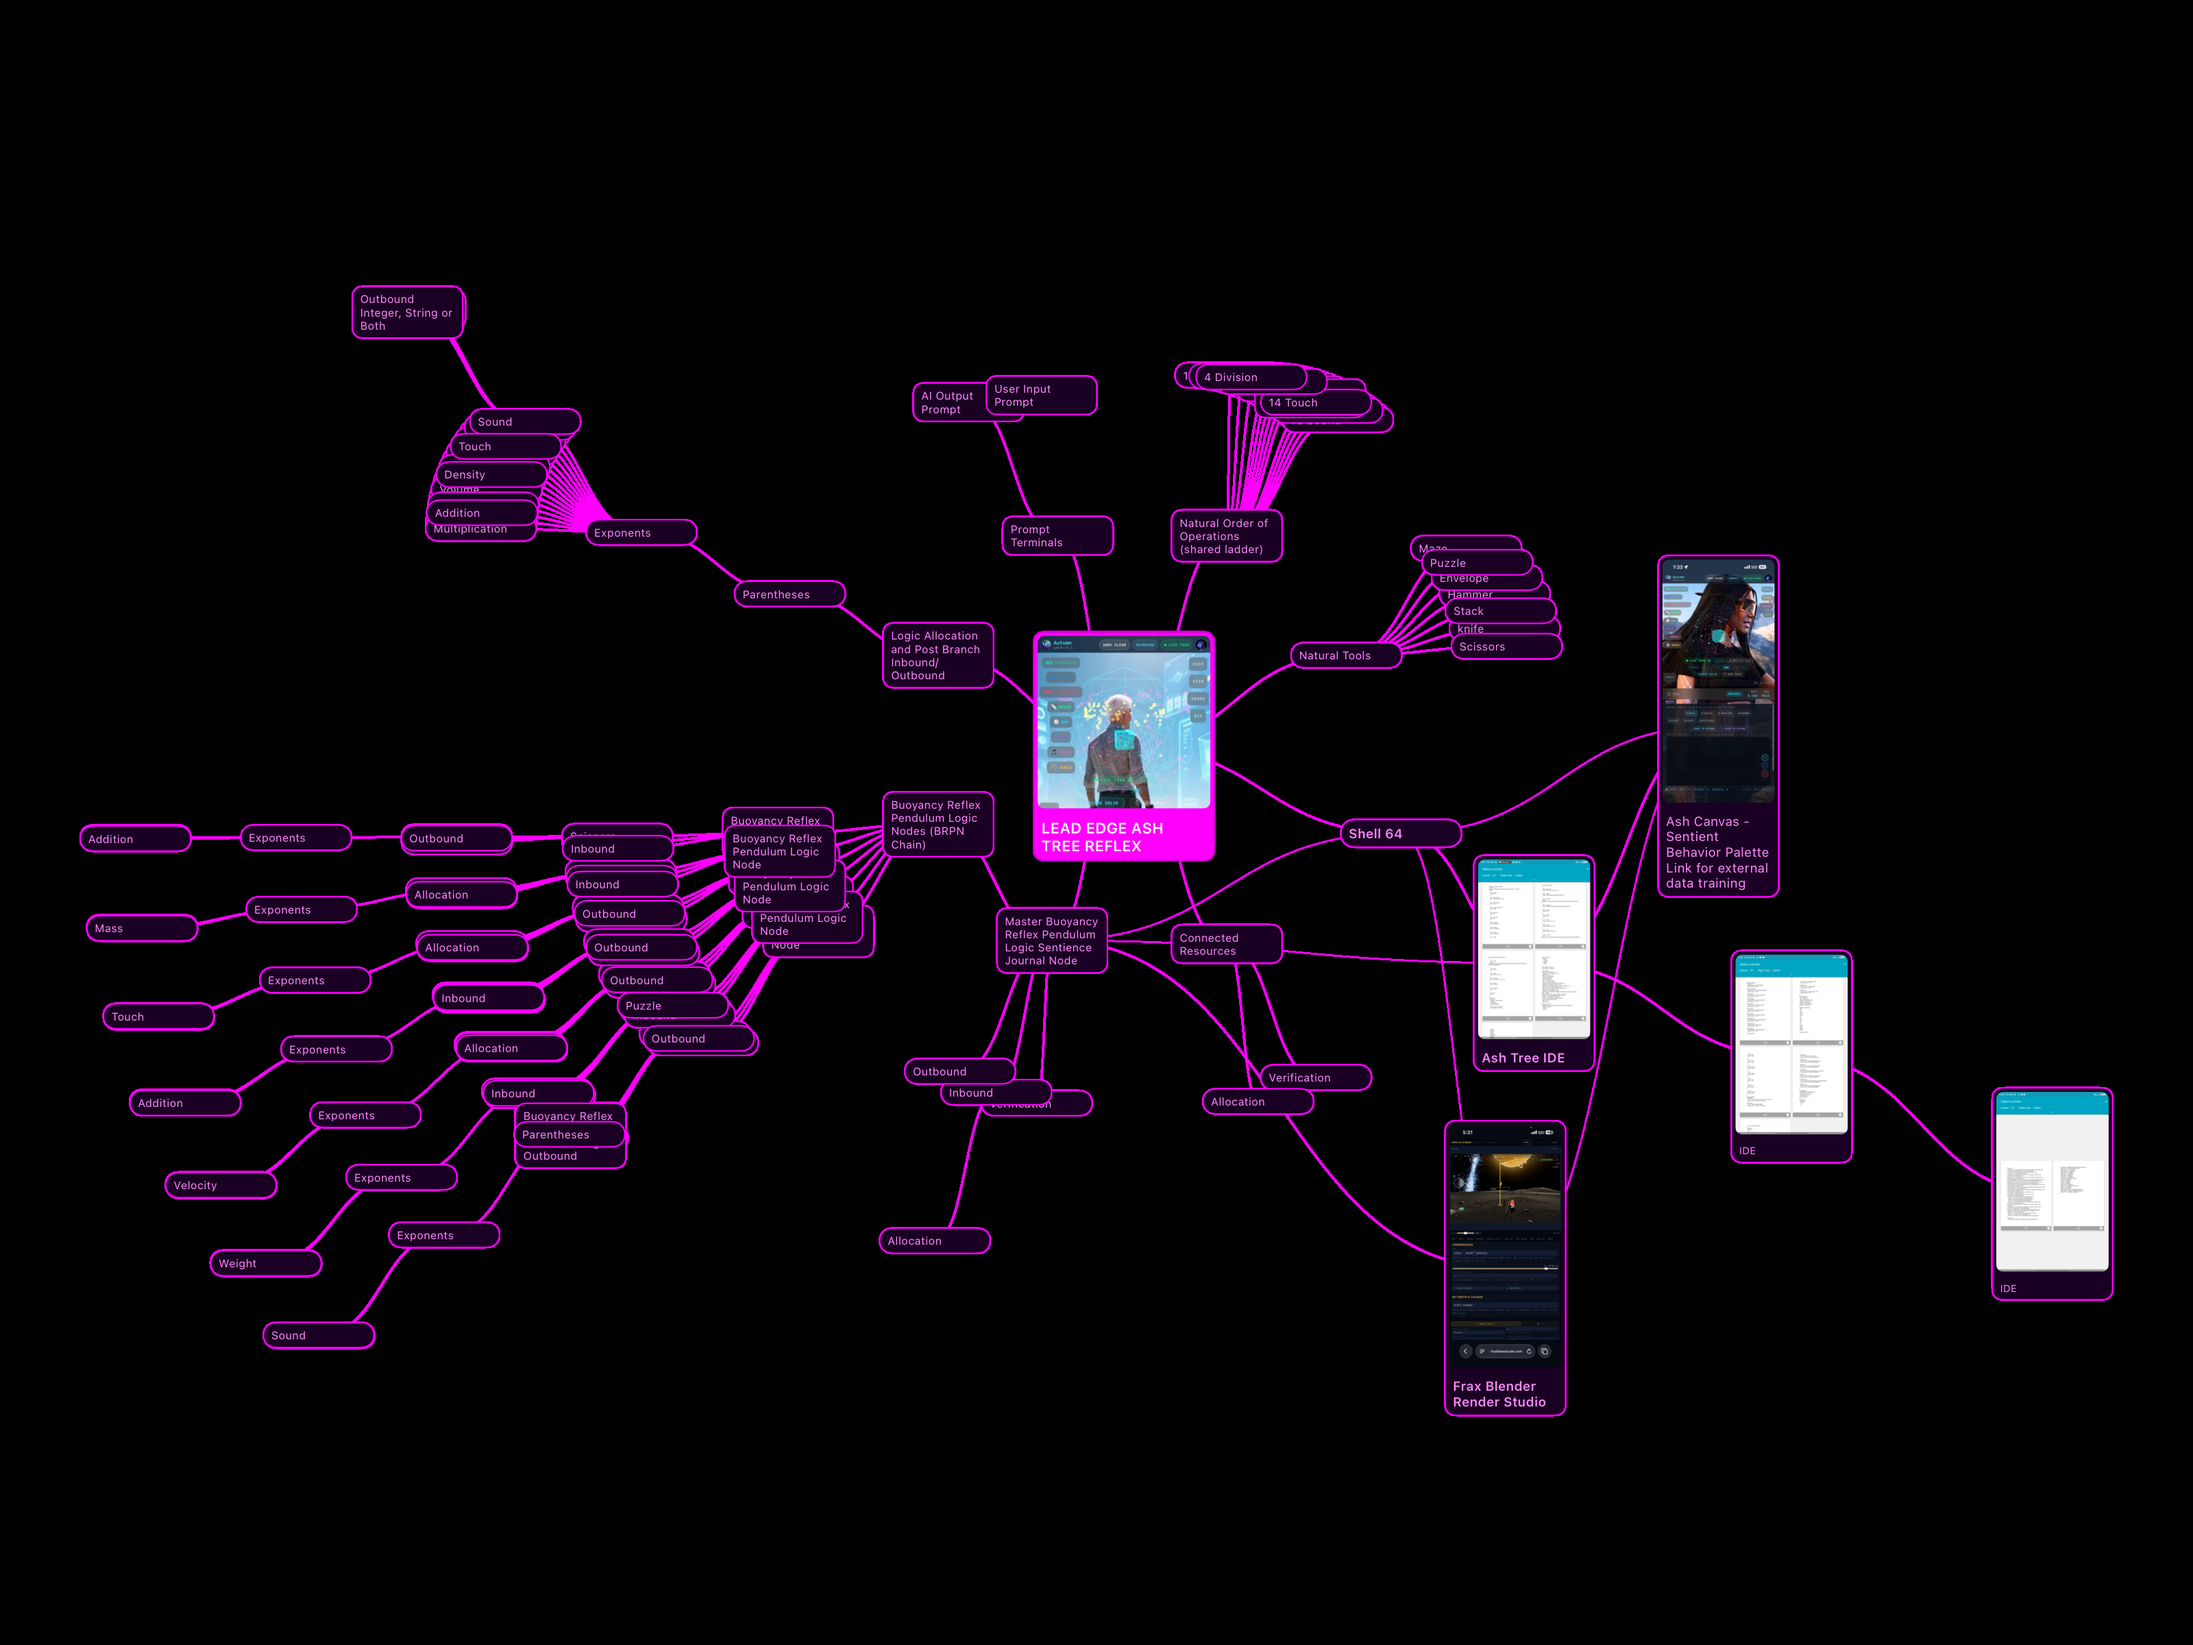
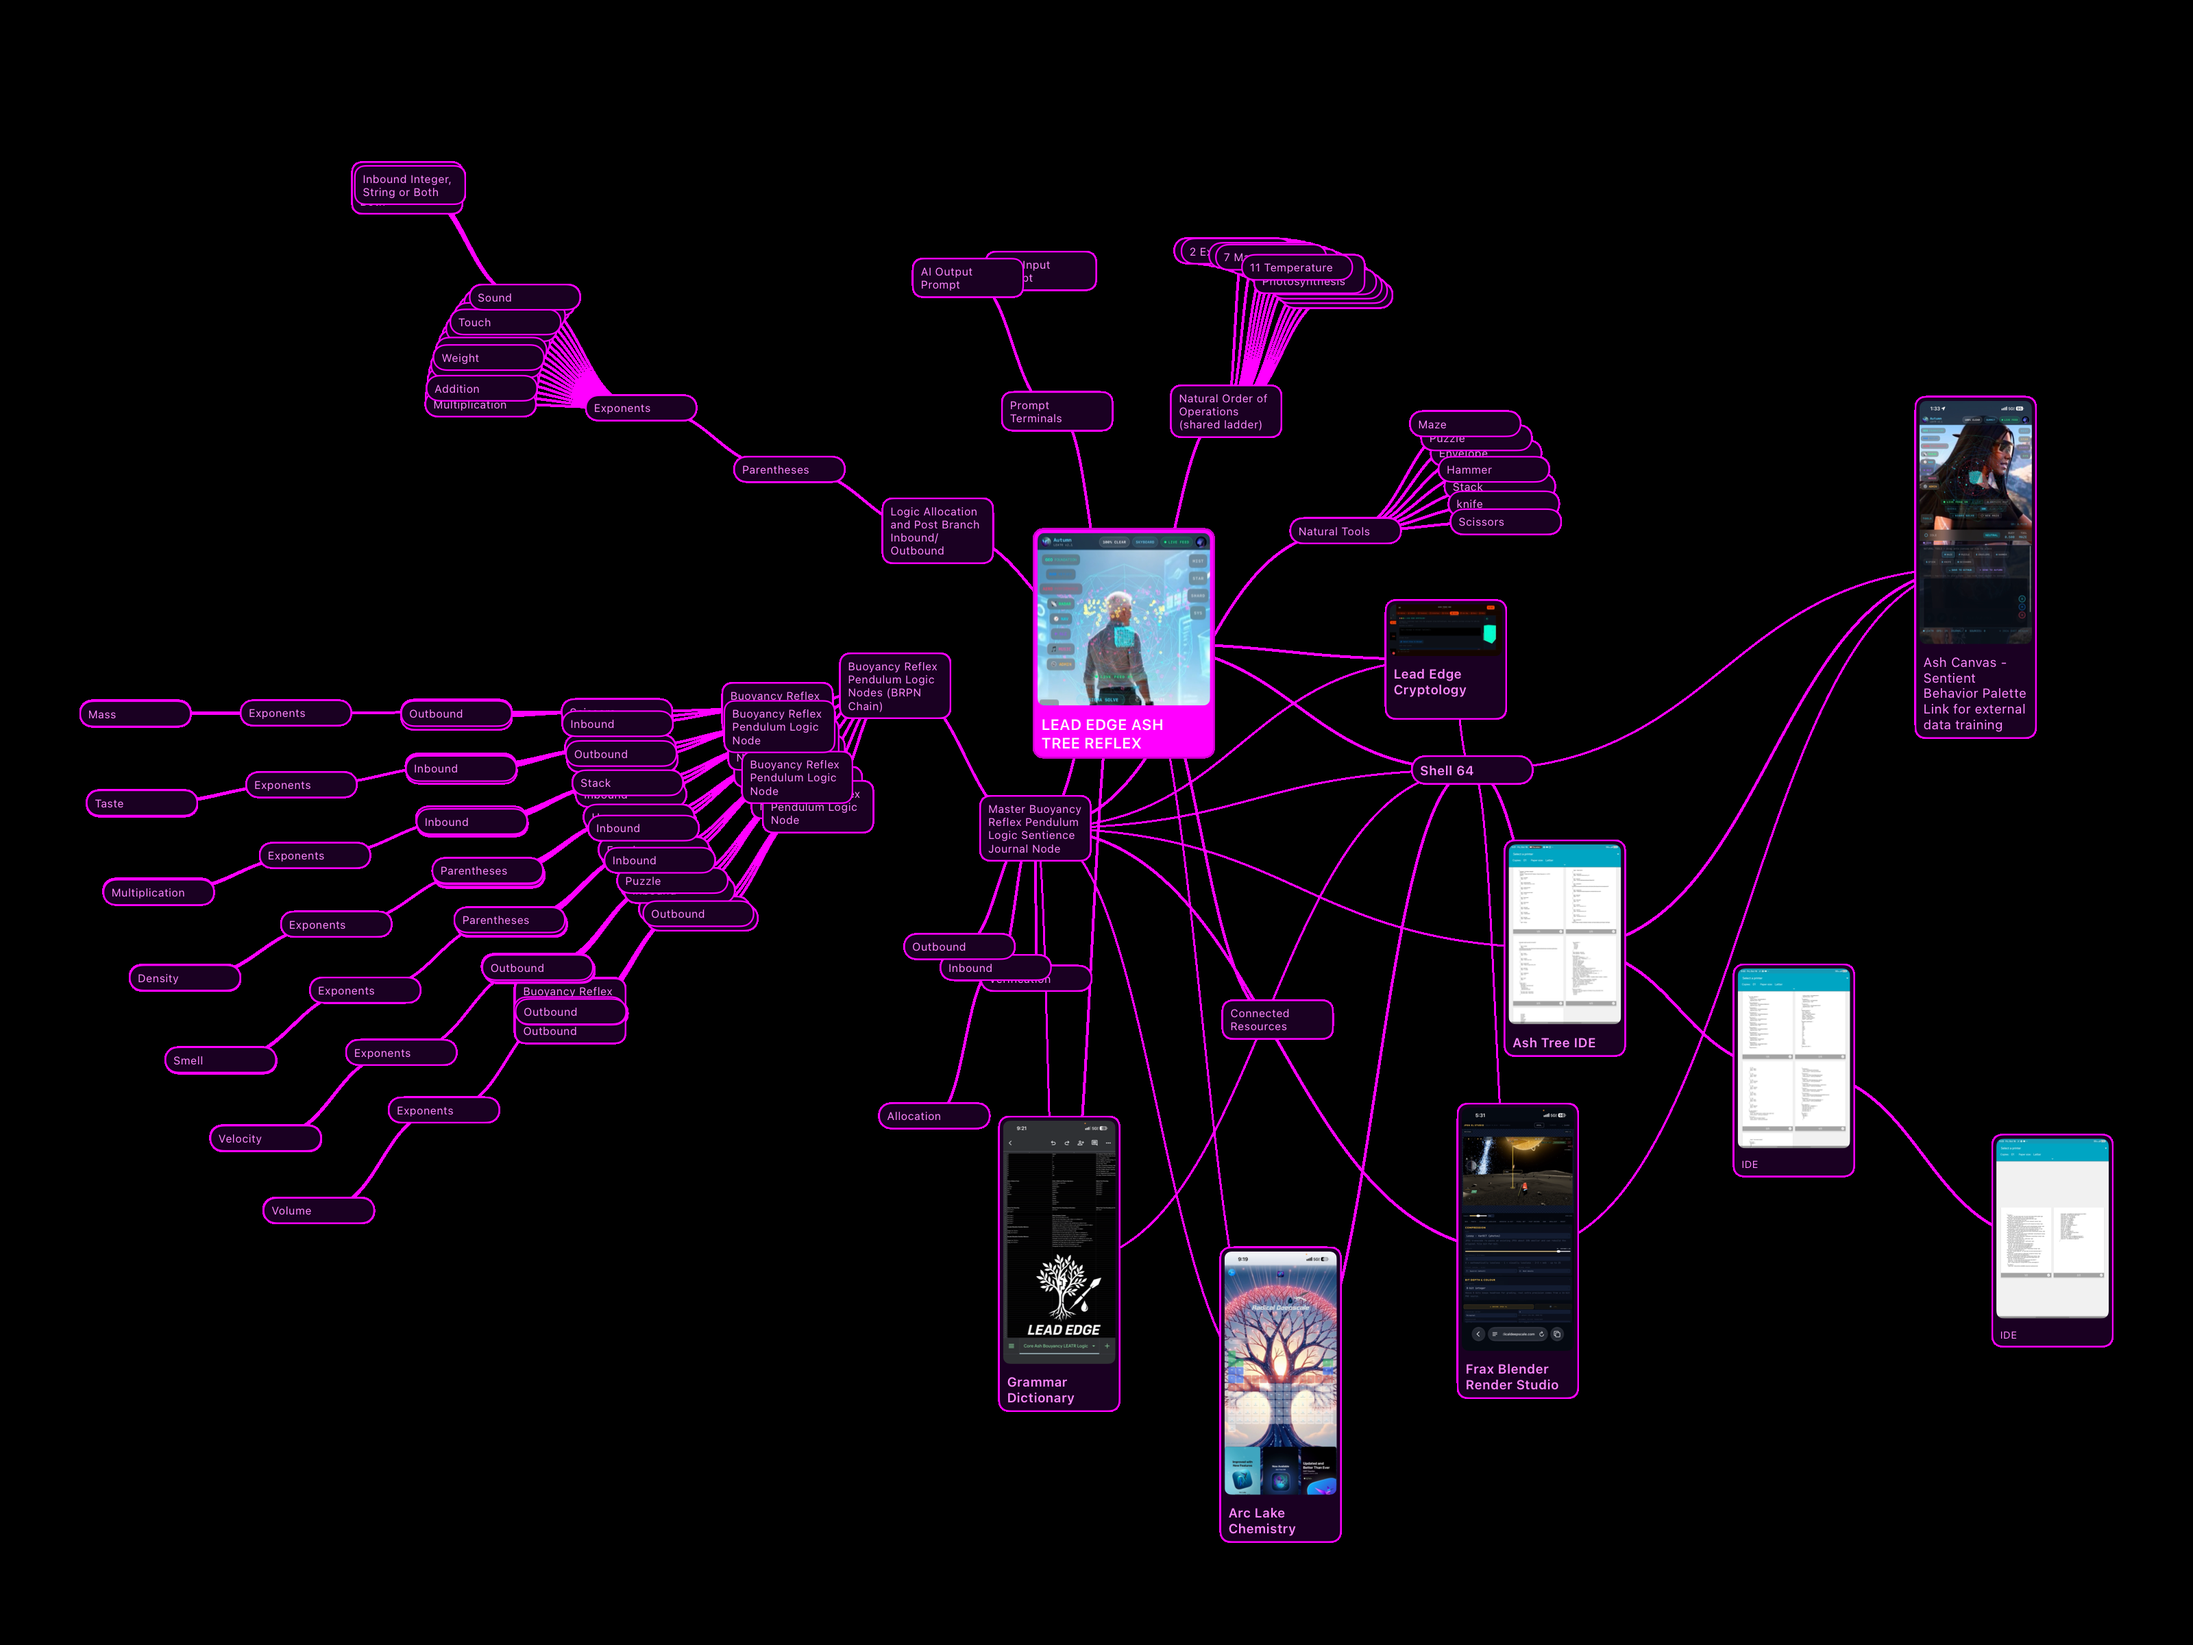
LEATR: mind map adds Lead Edge Cryptography, Grammar Dictionary, Arc Lake Chemistry
Claude-Session: https://claude.ai/code/session_011S5NGfxHypDSX9BF8ofHD7

diff --git a/templates/leatr.html b/templates/leatr.html
@@ -1125,7 +1125,7 @@ P<sub>build</sub> =
         <div class="card-content">
             <p>The Lead Edge Ash Tree Reflex maps as a single reflex tree: prompts at the tip, BRPN buoyancy shells and natural orders branching outward, Nature Tools on the right, and <strong>Shell 64</strong> as the socket that integrates external trained data into the reflex shells — feeding the Sentience Journal and the Master Buoyancy Reflex Pendulum Logic Sentience Journal Node. <strong>Ash Canvas</strong>, the Sentient Behavior Palette, links in from the right as the external data training connection.</p>
             <div class="mindmap-figure">
-                <img src="leatr-shell64-mindmap.png?v=3"
+                <img src="leatr-shell64-mindmap.png?v=4"
                      alt="LEATR Architecture Mind Map showing Shell 64, Ash Canvas Sentient Behavior Palette, BRPN chain, Nature Tools, Natural Order of Operations, and Sentience Journal"
                      loading="lazy" />
             </div>
